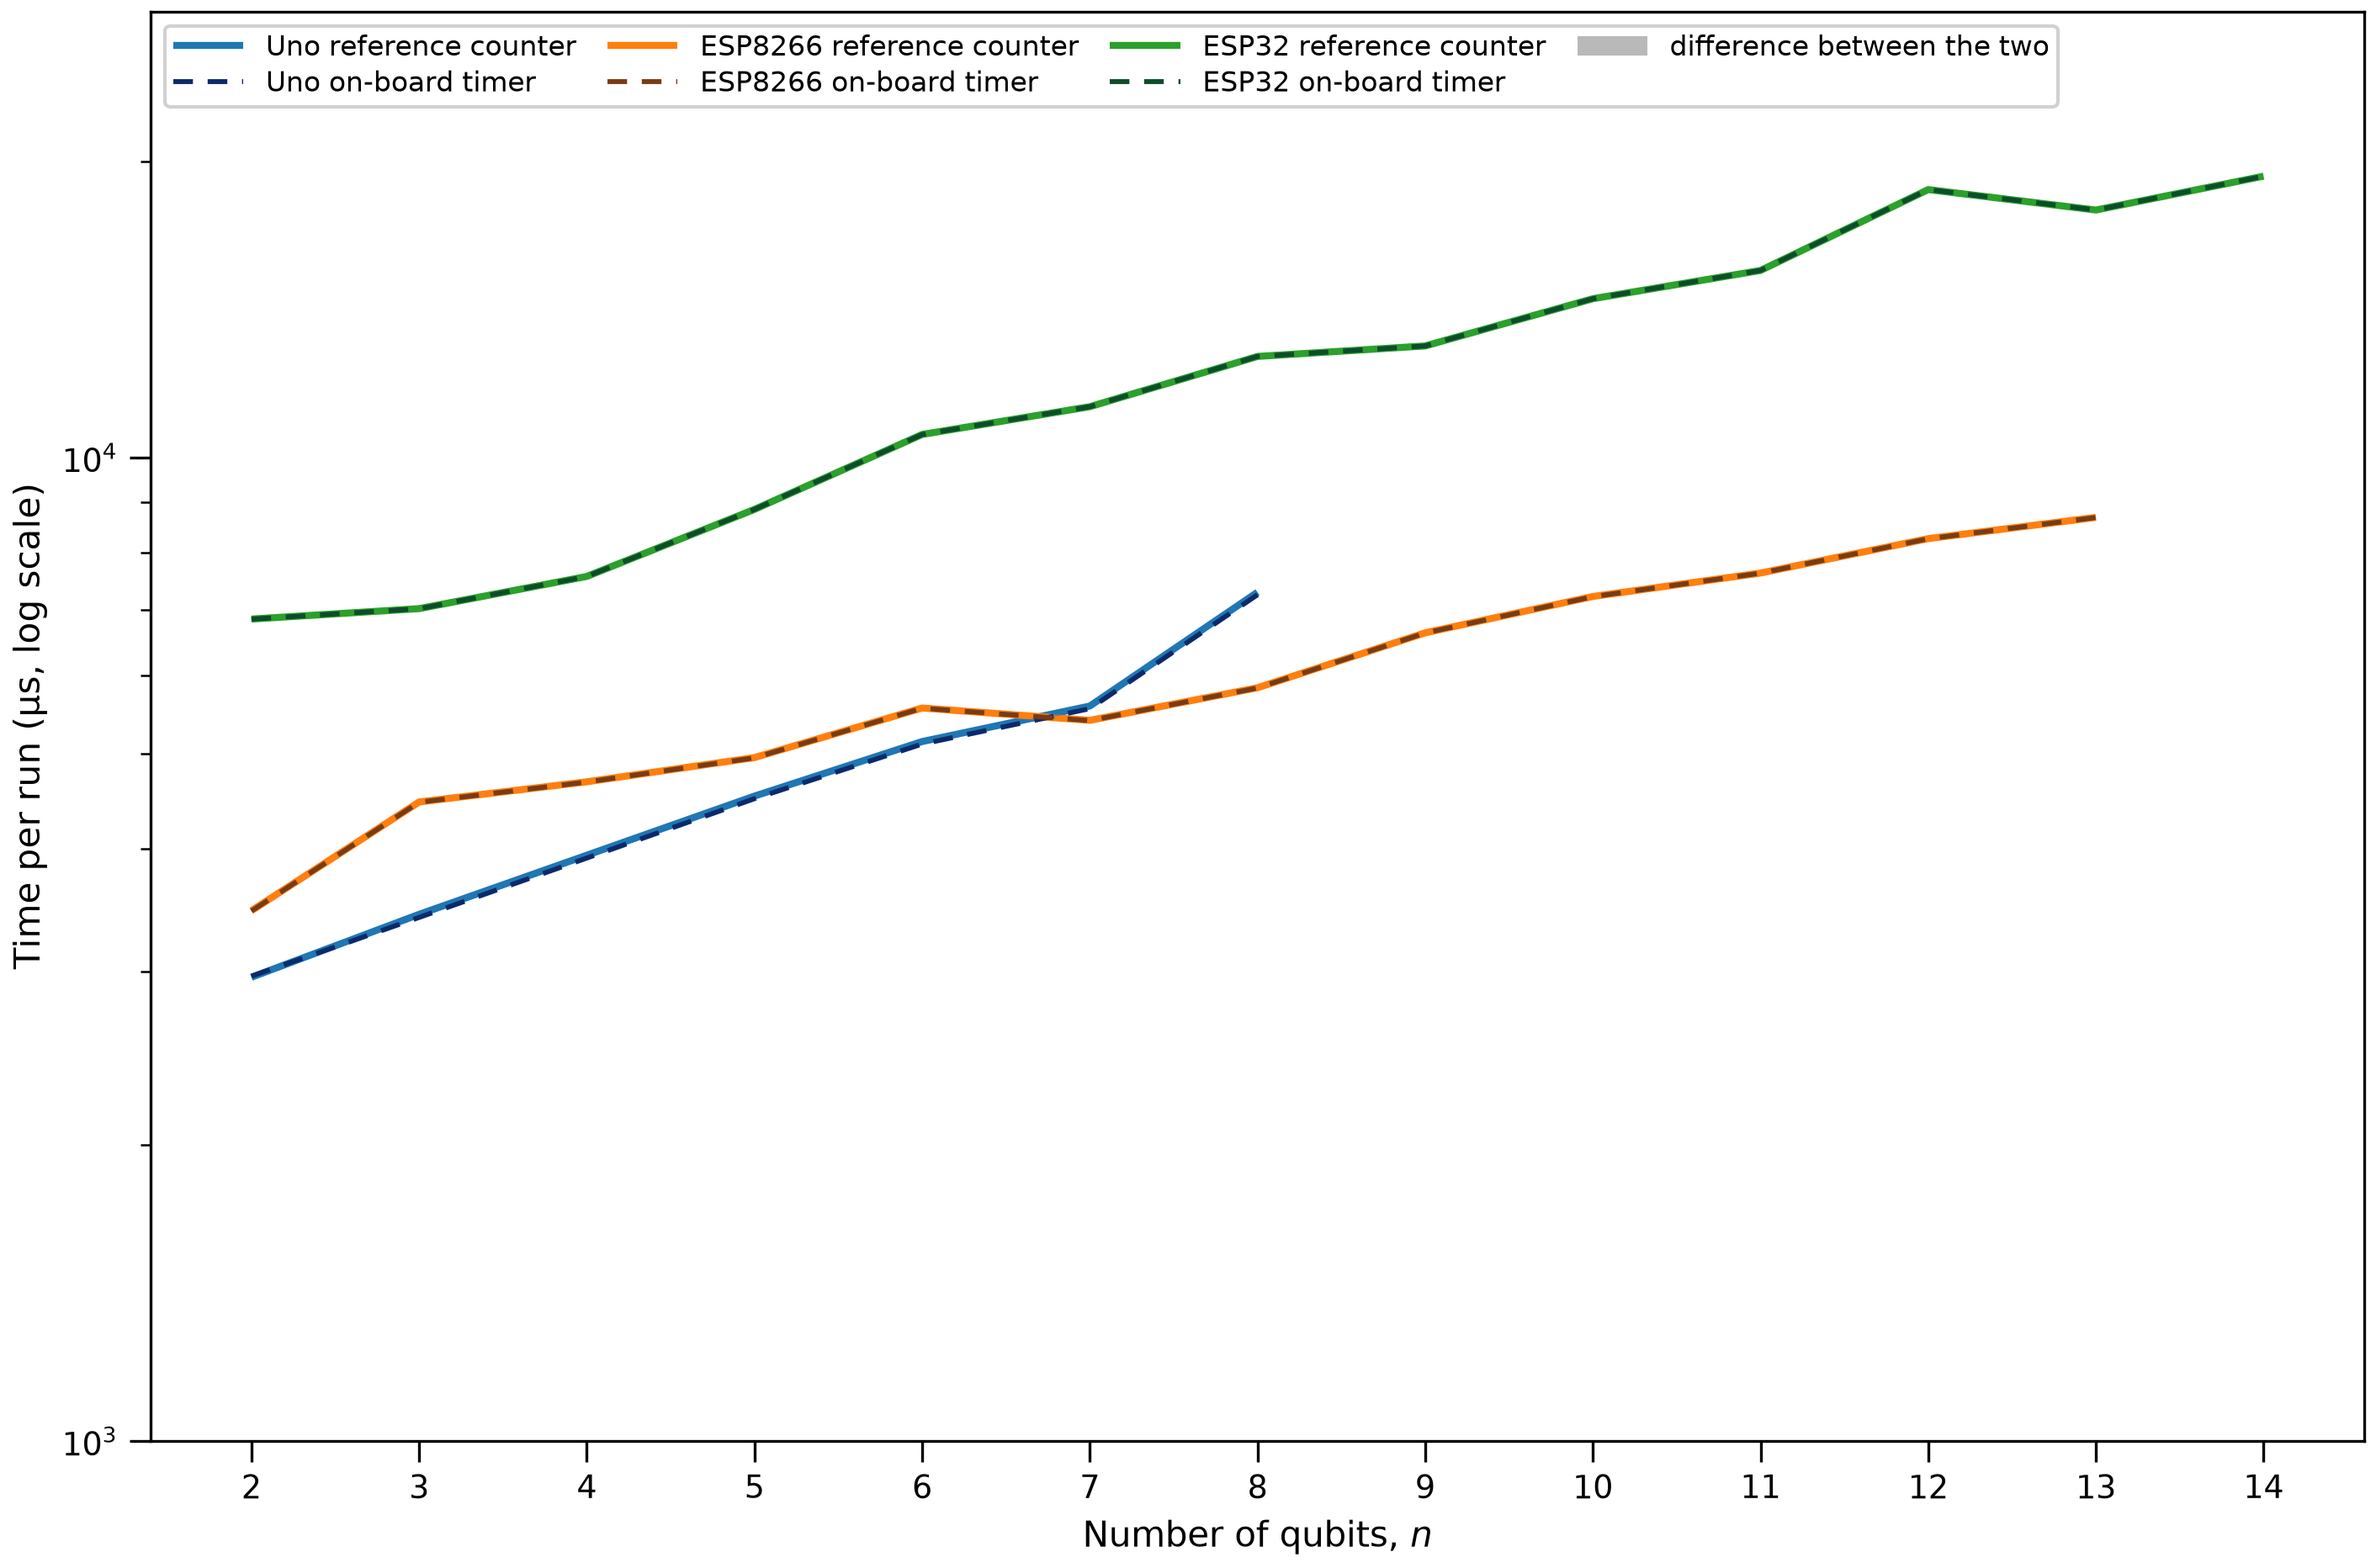
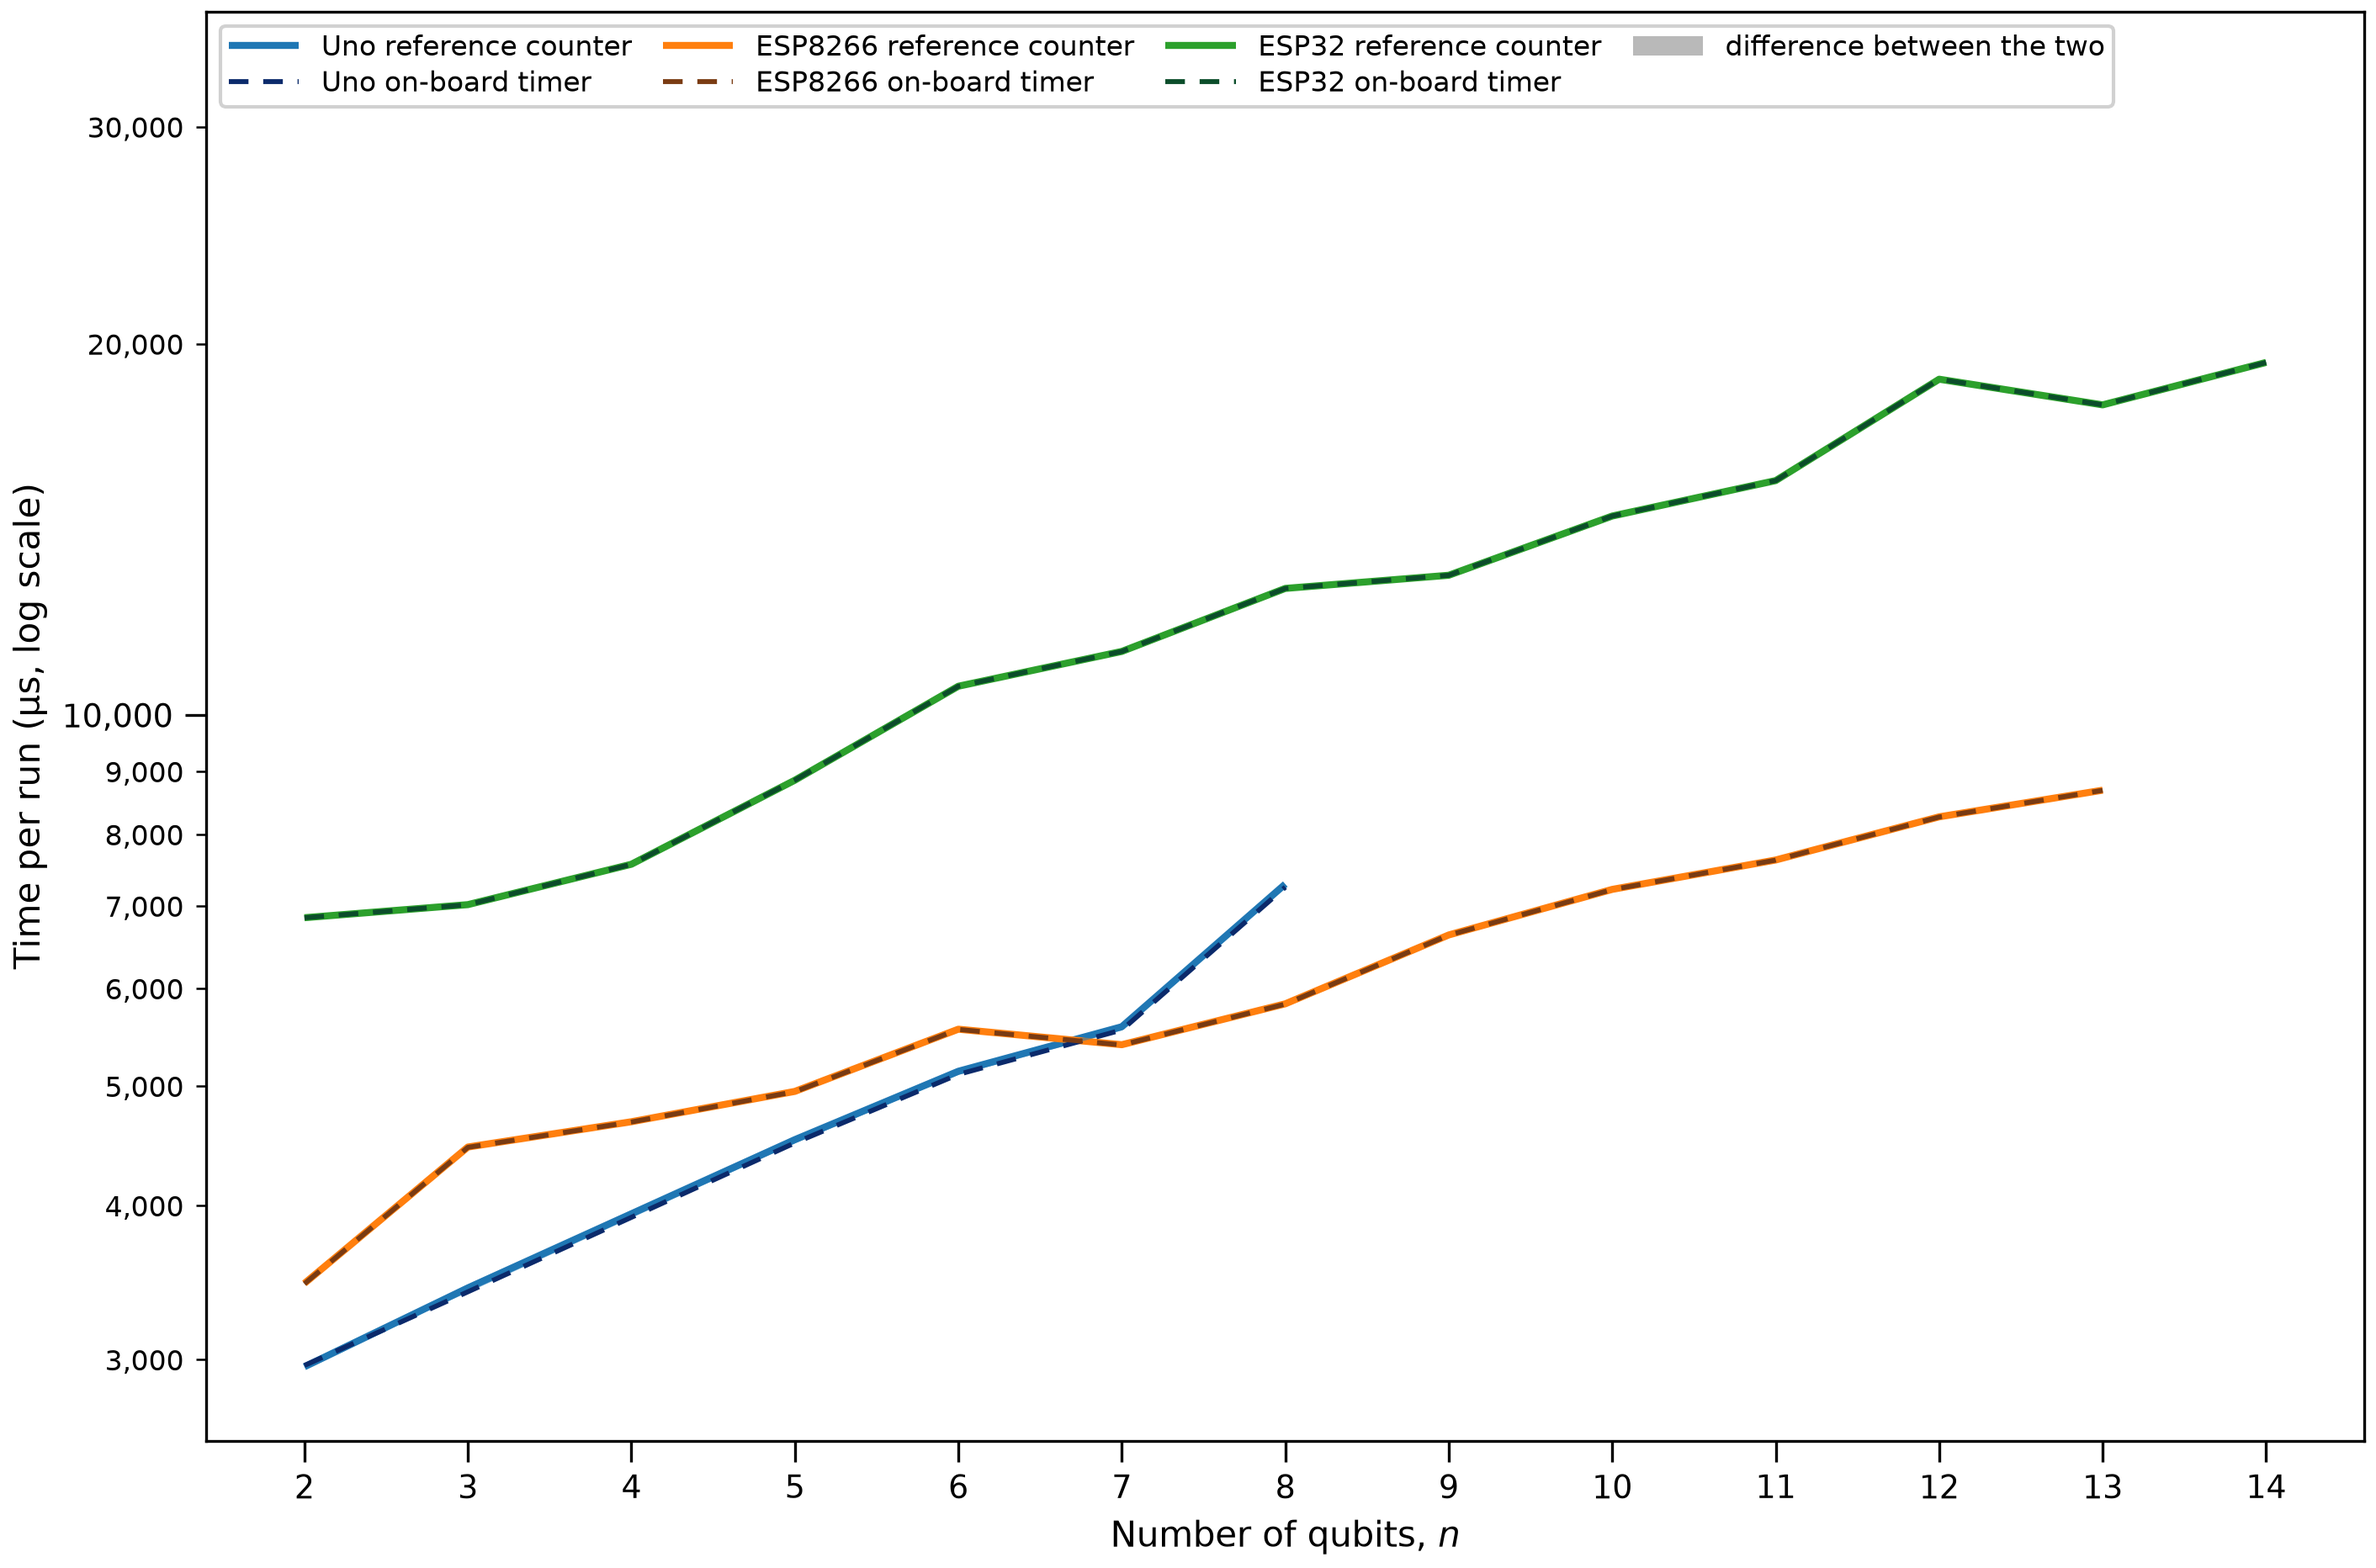
figures: phase 3 timer_vs_counter y axis fitted to the data with a plain-number label at every tick
Claude-Session: https://claude.ai/code/session_01AE6WdfFceGc968bUQSKnsU

diff --git a/analysis/timer_vs_counter_house_plots.py b/analysis/timer_vs_counter_house_plots.py
@@ -74,6 +74,13 @@ for ph in (2, 3):
         ax.yaxis.set_minor_locator(mticker.LogLocator(base=10, subs=np.arange(2, 10), numticks=60))
         ax.yaxis.set_minor_formatter(mticker.NullFormatter())
         ax.tick_params(axis="y", which="minor", length=3, direction="out")
+        if ph == 3:                                           # Phase 3 spans only about 1.5 decades: label every tick (2, 3, ... 9 x 10^k) with plain numbers
+            fmt = mticker.FuncFormatter(lambda v, _: f"{v:,.0f}")
+            ax.yaxis.set_major_formatter(fmt)
+            ax.yaxis.set_minor_formatter(fmt)
+            ax.tick_params(axis="y", which="minor", labelsize=8)
+            llo, lhi = np.log10(lo), np.log10(hi)                  # and fit the axis to the data instead of whole decades
+            ax.set_ylim(10 ** (llo - 0.06), 10 ** (lhi + 0.30 * (lhi - llo) + 0.04))
         out = os.path.join(ROOT, "data", "figures", f"phase{ph}", "timer_vs_counter", f"{c}.png")
         os.makedirs(os.path.dirname(out), exist_ok=True)
         save_figure(fig, out)
